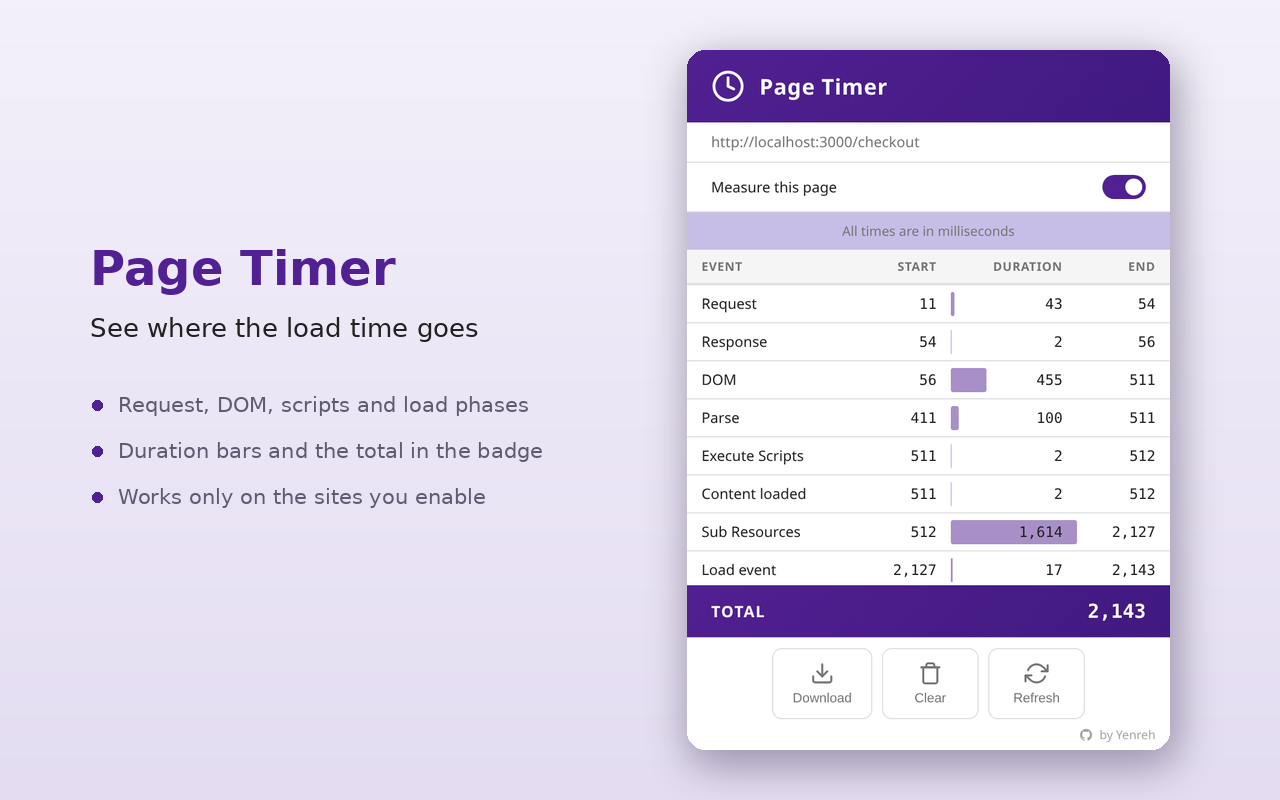
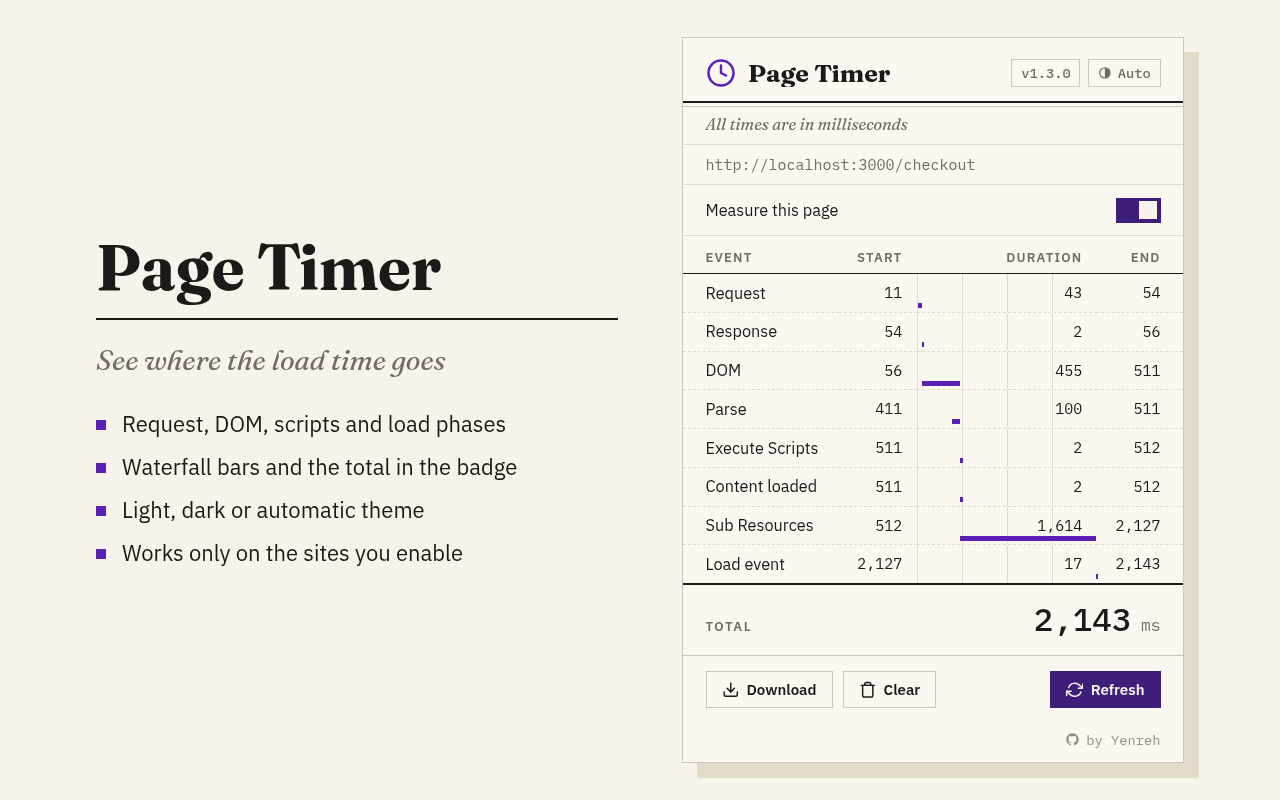
Update store screenshot and listing

diff --git a/STORE.md b/STORE.md
@@ -12,10 +12,10 @@ Page Timer measures how long a web page takes to load and shows the individual
 phases of the load, so you can see where the time actually goes:
 
 - Request, Response, DOM, Parse, Execute Scripts, Content loaded, Sub Resources and Load event
-- Duration bars to compare phases at a glance, plus the total in the badge
+- Waterfall bars that show when each phase starts and how long it takes, plus the total in the badge
 - Per-site switch: the extension only measures the origins you explicitly enable
 - Download the metrics as JSON
-- English and Spanish interface, light and dark mode
+- English and Spanish interface, light, dark or automatic theme
 
 The extension does not collect, store or transmit any personal data. Everything
 stays in your browser.
